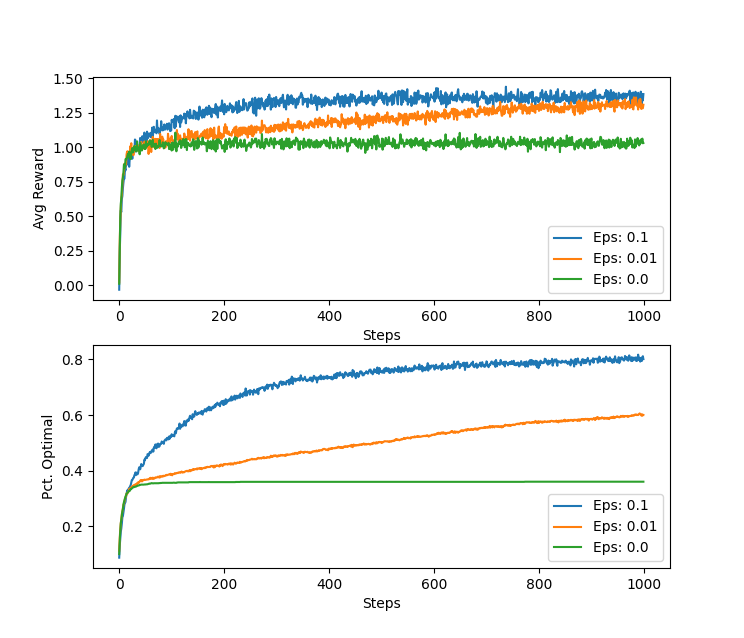
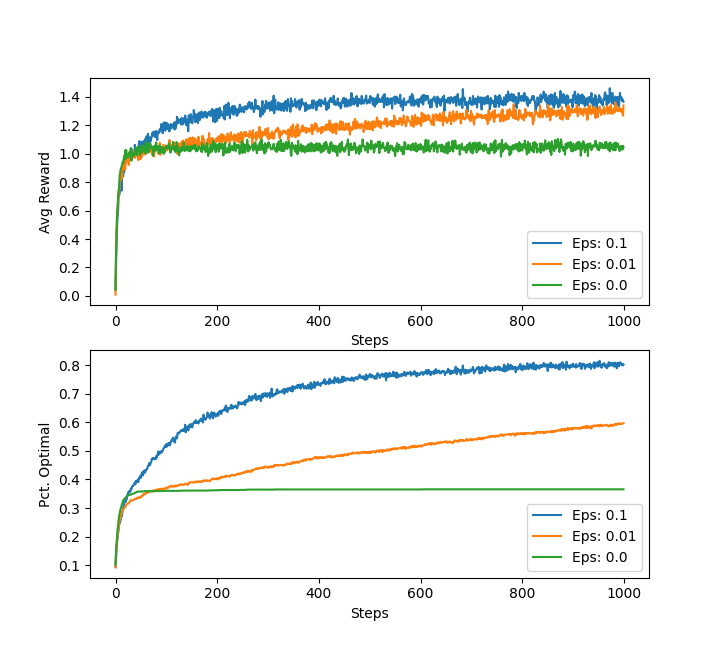
np seed

Changed region(s): [[0.0305, 0.1191, 0.9154, 0.5063], [0.0305, 0.5063, 0.9154, 0.9232], [0.4882, 0.9232, 0.5492, 0.953]]

diff --git a/code/src/bandit/run_epsilon_greedy_bandit.py b/code/src/bandit/run_epsilon_greedy_bandit.py
@@ -5,6 +5,7 @@
 
 import argparse
 import matplotlib.pyplot as plt
+import numpy as np
 
 from lib.bandit.analytics import EpsilonGreedyBanditAnalytics
 from lib.bandit.factory import EpsilonGreedyBanditFactory
@@ -31,6 +32,7 @@ def main():
     analytics = []
     fig, ax = plt.subplots(2)
     for eps in args.eps:
+        np.random.seed(0)
         analytics = EpsilonGreedyBanditAnalytics(eps, args.p, args.s, args.k)
         testsuite = TestSuite(
             args.p,
